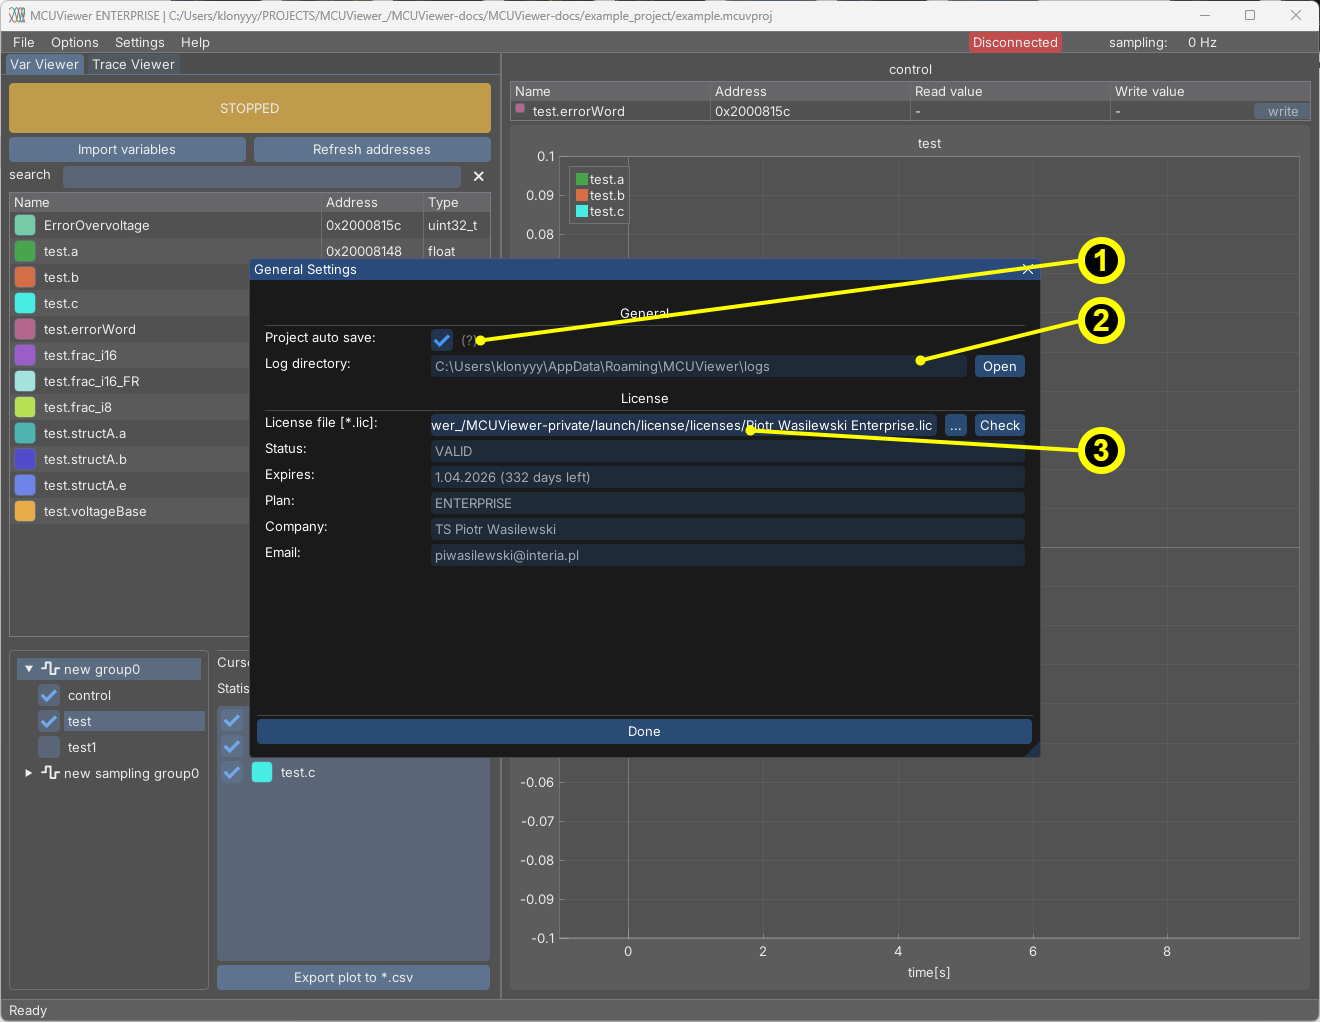
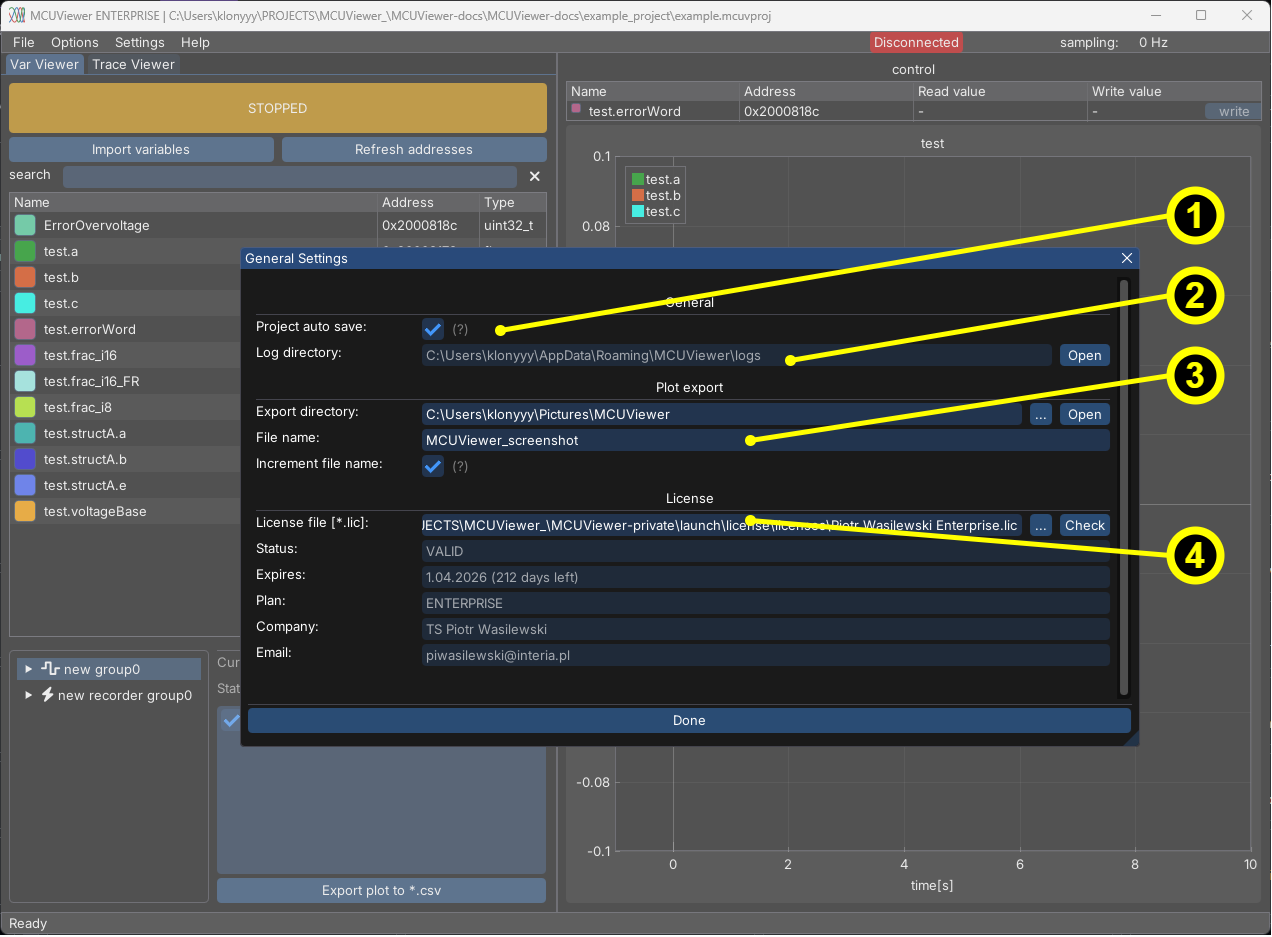
1.2.3 docs update

diff --git a/documentation/GeneralSettings/GeneralSettings.md b/documentation/GeneralSettings/GeneralSettings.md
@@ -6,6 +6,12 @@
 2. `Log directory` - shows the current log directory. It can be accessed quickly by pressing `Open` button next to it. 
 
 
+## Plot export
+
+The Plot Export section provides options for saving the current plot area as a *.png file. Plots can be saved either by navigating to *File -> Save plots to .png or by using the keyboard shortcut `Ctrl+P`.
+
+By default, all plots are saved to the system’s Pictures directory. Users with a non-free license have the option to change the save destination.
+
 ## License section
 
 License section allows to open the license file of MCUViewer. License files have *.lic extension and have to be purchased from [MCUViewer website](https://mcuviewer.com). After selecting click `Check` button to see the license details. If the license is valid MCUViewer will automatically switch to the upgraded version. 

diff --git a/documentation/Examples/Examples.md b/documentation/Examples/Examples.md
@@ -7,10 +7,6 @@ Examples show how to set up MCUViewer with different probes.
 
 Raspberry Pi debug probe is not natively supported by MCUViewer. This means that we need a GDB server to connect to it. In this example we will use OpenOCD with an example project for Raspberry Pi Pico rp2040.
 
-```{note}
-Currently GDB server probe is only available in [MCUViewer 1.2.2 beta](https://download.mcuviewer.com/releases/beta/1.2.2_b2f6e24/).  
-```
-
 1. Create a new Raspberry PI Pico project in VScode
 
 2. Copy the interface/rp2040.cfg to the project folder. Add the following lines at the end of the file:
